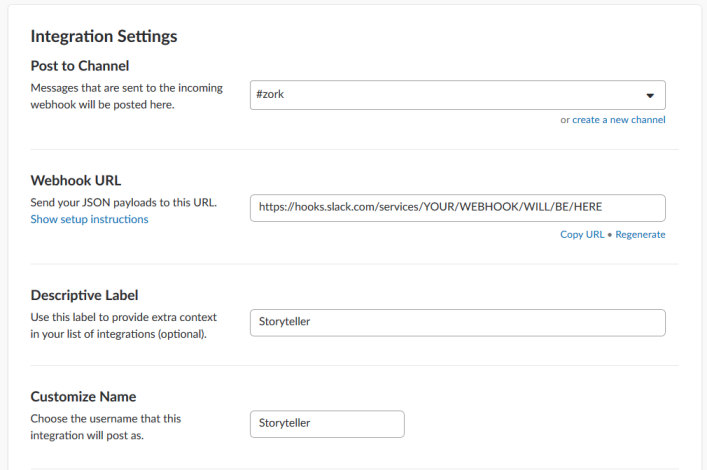
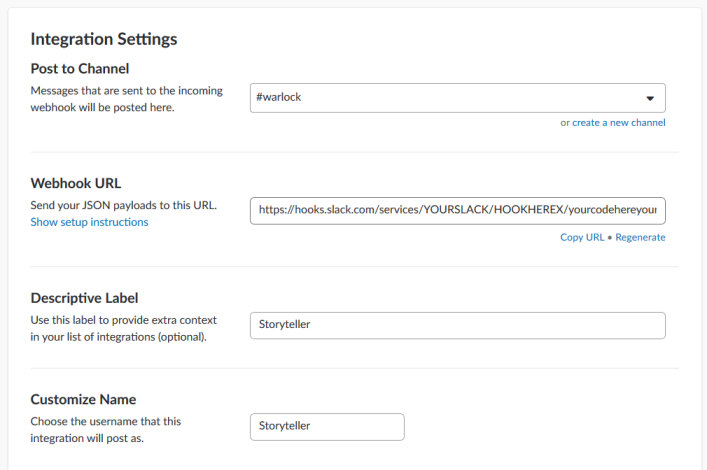
Update and add images to readme.md

diff --git a/README.md b/README.md
@@ -11,10 +11,12 @@ Download and extract the bot to start.
 #### 1. Set-Up Slack
 First you must create an incoming and outgoing webhook. In Slack, go to **Administration > Manage Apps > Custom Integrations**.
 ##### Incoming Webhook
+![Incoming hook example](../master/example-slack-webhooks/slack_incoming_hook_example.jpg)
 Set the channel to where you want the story to be told. You will probably want to dedicate a channel to the story.
 Give the bot a good name. I suggest Storyteller or StorytellerBot.
 **Make a note of the Webhook URL.** Open `config.php` and set `SLACK_HOOK` to this URL.
 ##### Outgoing Webhook
+![Outgoing hook example](../master/example-slack-webhooks/slack_outgoing_hook_example.jpg)
 Set the channel to the same channel as the incoming hook.
 Set the trigger word. I suggest using `!` to keep things simple. The trigger word must be prefixed to every command.
 Set the URL to where your installation will be located.
@@ -32,6 +34,7 @@ Unfortunately, the _Fighting Fantasy_ books can no longer be bought in an eBook 
 Storyteller doesn't have to play the official books. Perhaps one of the best ways to get a story in to the bot is to write your own. So long as you are compatible with the _Fighting Fantasy_ ruleset, this will work. If anyone does do this, please consider submitting your story back here. I'd love to include longer stories with this distribution.
 #### 3. Get the code online
 Upload the installation to your PHP enabled web-server. No database is needed. The uploaded directory must be writable.
+Make sure it's location matches what you step up for the outgoing hook in step 1. If it's different go back and alter the hook.
 If you are _not_ using apache, you must replicate the rules in `.htaccess` to ensure the installation is secure.
 #### 4. Ready to play!
 Type `!newgame` in the channel you chose for the webhook to get started. Type `!help` to see the basic commands or `!helpmore` for the complete list.
